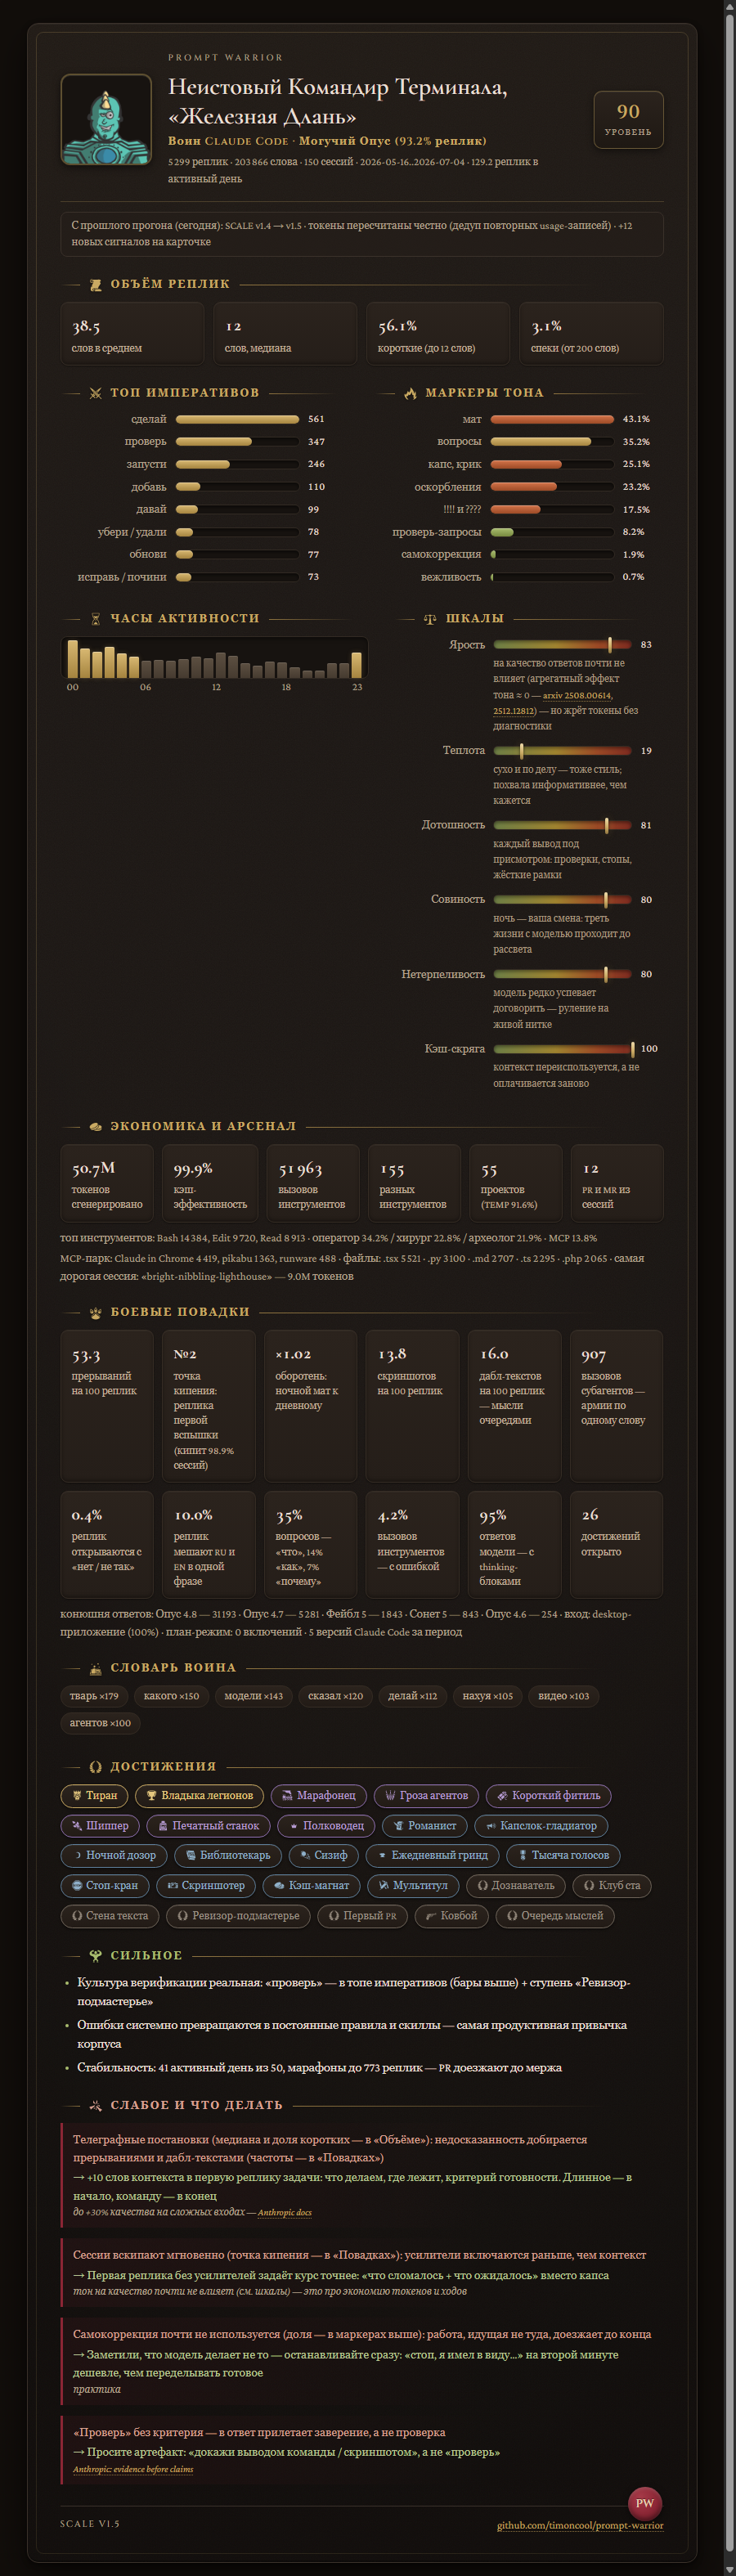
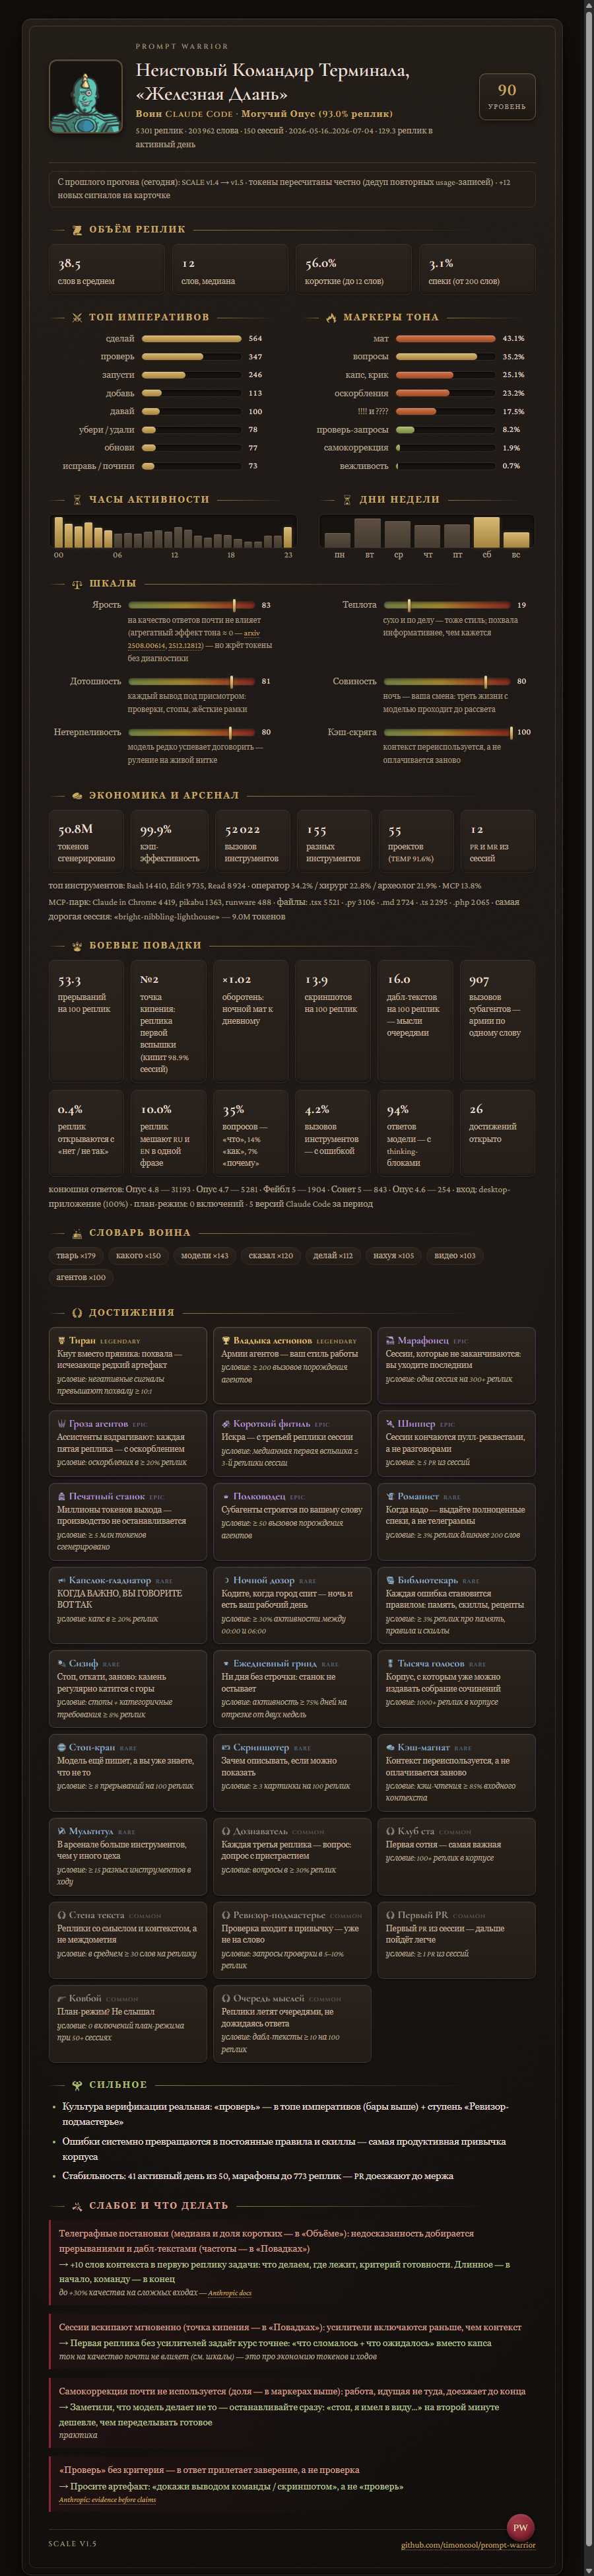
Card layout: expanded achievement cards, weekday histogram, gauges in two columns

Changed region(s): [[0.0622, 0.0, 0.9022, 0.9956], [0.84, 0.0311, 0.8711, 0.0622]]

diff --git a/scripts/analyze.py b/scripts/analyze.py
@@ -366,11 +366,14 @@ def compute_metrics(messages):
     morning = sum(c for h, c in hours_local.items() if 5 <= h <= 9)
     day = sum(c for h, c in hours_local.items() if 9 <= h <= 18)
     weekend = 0
+    weekdays_local = Counter()
     try:
         import datetime
         for msg in messages:
             if msg["ts"]:
-                if datetime.date.fromisoformat(msg["ts"][:10]).weekday() >= 5:
+                wd = datetime.date.fromisoformat(msg["ts"][:10]).weekday()
+                weekdays_local[wd] += 1
+                if wd >= 5:
                     weekend += 1
     except ValueError:
         pass
@@ -480,6 +483,7 @@ def compute_metrics(messages):
                          "en": round(100.0 * lat_chars / (ru_chars + lat_chars or 1))},
         "top_imperatives": top_imperatives,
         "hours_local": [hours_local.get(h, 0) for h in range(24)],
+        "weekdays": [weekdays_local.get(d, 0) for d in range(7)],
         "boiling_point_median": boiling_point,
         "boiled_sessions_pct": round(100.0 * boiled / rated_sessions, 1) if rated_sessions else 0,
         "werewolf_ratio": werewolf,

diff --git a/references/widget.md b/references/widget.md
@@ -17,7 +17,7 @@
    Дотошность, Совиность, Нетерпеливость, Кэш-скряга; последняя есть только при доступной
    экономике), с готовыми подписями-бакетами; не выдумывать свои формулы и тексты.
 2а. Все упоминания источников (arxiv, Anthropic docs) — КЛИКАБЕЛЬНЫЕ <a href>, не голый текст.
-2б. Каждый чип ачивки несёт стилизованный CSS-тултип (.tip): название + редкость + флейвор (desc_*) + условие (cond_*) из profile.json. Браузерный атрибут title не использовать.
+2б. Ачивки — РАЗВЁРНУТЫМИ карточками (.ac), без тултипов и hover: в каждой сразу видны иконка + название (цвет редкости) + редкость + флейвор (desc_*) + условие (cond_*) из profile.json. Сетка 3 колонки (.chips).
 3. Никаких картинок: ни аватаров, ни иконок, ни SVG, ни base64, ни внешних ресурсов.
 4. Отдельной секции «Рекомендации» НЕТ — советы живут парами в «Слабое → что делать».
 4а. Идентичность: строка под титулом «{класс} · {раса} ({доля}% реплик)» из profile.identity;
@@ -125,7 +125,13 @@ a{color:var(--brass);text-decoration:none;border-bottom:1px dotted var(--brass-d
 .gauge{height:12px;border-radius:6px;border:1px solid #322A23;background:linear-gradient(90deg,#6E7F46,#A08430 45%,#9C4A26 75%,#7E2B20);box-shadow:inset 0 2px 4px rgba(0,0,0,.45);position:relative}
 .needle{position:absolute;top:-4px;width:4px;height:20px;background:linear-gradient(180deg,#F0DCAC,#C9A962 60%,#8F7440);border-radius:2px;box-shadow:0 0 4px rgba(0,0,0,.6),0 0 8px rgba(201,169,98,.4)}
 .gnote{font-size:12px;margin:0 30px 9px 120px;color:#A8977F}
-.chips{display:flex;flex-wrap:wrap;gap:8px}
+.chips{display:grid;grid-template-columns:repeat(3,1fr);gap:9px}
+.ac{background:linear-gradient(180deg,var(--oak2),#221B16);border:1px solid;border-radius:9px;padding:9px 12px 10px;box-shadow:inset 0 1px 0 rgba(255,255,255,.06),0 2px 3px rgba(0,0,0,.4)}
+.ac .nm{font-family:"Cormorant Garamond",Georgia,serif;font-weight:700;font-size:16px;line-height:1.25}
+.ac .rar{font-family:"Cinzel",Georgia,serif;text-transform:uppercase;letter-spacing:.1em;font-size:8.5px;margin-left:7px;opacity:.85}
+.ac .fl{font-size:12.5px;color:#C0AF9A;line-height:1.4;margin-top:3px}
+.ac .cd{font-size:11.5px;color:var(--mut);font-style:italic;margin-top:2px}
+.g2{display:grid;grid-template-columns:1fr 1fr;gap:4px 36px;align-items:start}
 .ch{position:relative;cursor:default;border-radius:15px;padding:3px 13px;font-size:13px;background:linear-gradient(180deg,var(--oak2),#221B16);border:1px solid;box-shadow:inset 0 1px 0 rgba(255,255,255,.07),0 2px 3px rgba(0,0,0,.4)}
 .ch .tip{visibility:hidden;opacity:0;transition:opacity .18s;position:absolute;bottom:135%;left:50%;transform:translateX(-50%);width:268px;z-index:9;background:linear-gradient(175deg,#2E2620,#241D18);border:1px solid #55483A;border-radius:9px;padding:11px 14px;font-size:12.5px;line-height:1.5;color:var(--text);box-shadow:0 1px 0 rgba(255,255,255,.06) inset,0 10px 30px rgba(0,0,0,.65);white-space:normal}
 .ch .tip:after{content:"";position:absolute;top:100%;left:50%;transform:translateX(-50%);border:7px solid transparent;border-top-color:#55483A}
@@ -167,8 +173,12 @@ ul.plus li::marker{color:#A9BC6E}
 
 <div class="duo">
 <div><h2><!-- иконка секции -->Часы активности</h2><div class="hours"><!-- 24 <i>, ночные .n --></div></div>
-<div><h2><!-- иконка секции -->Шкалы</h2><!-- ВСЕ гейджи из profile.gauges (.growl+.gauge+.needle), подписи-бакеты оттуда же, ссылки кликабельны --></div>
+<div><h2><!-- иконка секции -->Дни недели</h2><div class="hours" style="gap:6px"><!-- 7 <i> из metrics.weekdays (пн..вс), сб-вс .n --></div></div>
 </div>
+
+<h2><!-- иконка секции -->Шкалы</h2>
+<div class="g2"><!-- ВСЕ гейджи из profile.gauges в 2 колонки, каждый в своей <div>-ячейке:
+.growl (подпись+.gauge+.needle+значение) + .gnote (подпись-бакет, ссылки кликабельны) --></div>
 
 <h2><!-- иконка секции -->Экономика и арсенал</h2>
 <div class="grid6"><!-- 6 тайлов: токены / кэш-эфф / вызовы / инструменты / проекты / PR; секцию скрыть если economy null --></div>
@@ -186,7 +196,7 @@ ul.plus li::marker{color:#A9BC6E}
 <div><!-- .wch чипы слово ×count; скрыть если пусто --></div>
 
 <h2>Достижения, {{N}}</h2>
-<div class="chips"><!-- .ch чипы: инлайн-иконка (assets/achievement-icons, только path, fill=currentColor, фон-прямоугольники выбросить) + название + .tip тултип --></div>
+<div class="chips"><!-- .ac карточки (сетка 3 кол.): инлайн-иконка (assets/achievement-icons, только path, fill=currentColor, фоны выбросить) + название цветом редкости + .rar + .fl флейвор + .cd условие. Всё видно сразу, БЕЗ тултипов --></div>
 
 <h2 style="color:#A9BC6E">Сильное</h2>
 <ul class="plus"><!-- до 3 пунктов по правилам выбора --></ul>

diff --git a/references/scale.md b/references/scale.md
@@ -24,7 +24,8 @@ v1.5: новые метрики (формулы заморожены): reject_op
 идущие подряд без ответа ассистента между ними (состояние на файл сессии, до дедупа);
 question_types_pct — среди реплик с «?» доли содержащих «почему/зачем/why», «как/how»,
 «что/какой/what/which» (могут пересекаться); code_switching_pct — доля voice-реплик с ≥2
-кириллическими И ≥2 латинскими словами. Слои: top_mcp_servers (имя = второй сегмент
+кириллическими И ≥2 латинскими словами; weekdays — гистограмма реплик по дням недели
+(пн..вс, по дате timestamp). Слои: top_mcp_servers (имя = второй сегмент
 `mcp__server__tool`), top_extensions (расширение file_path из tool_use-инпутов),
 subagent_spawn_calls = вызовы Agent + Task + Workflow, top_sessions (топ-3 по output-токенам,
 имя = customTitle либо slug), entrypoints, versions_seen, branches_seen. Две новые шкалы: